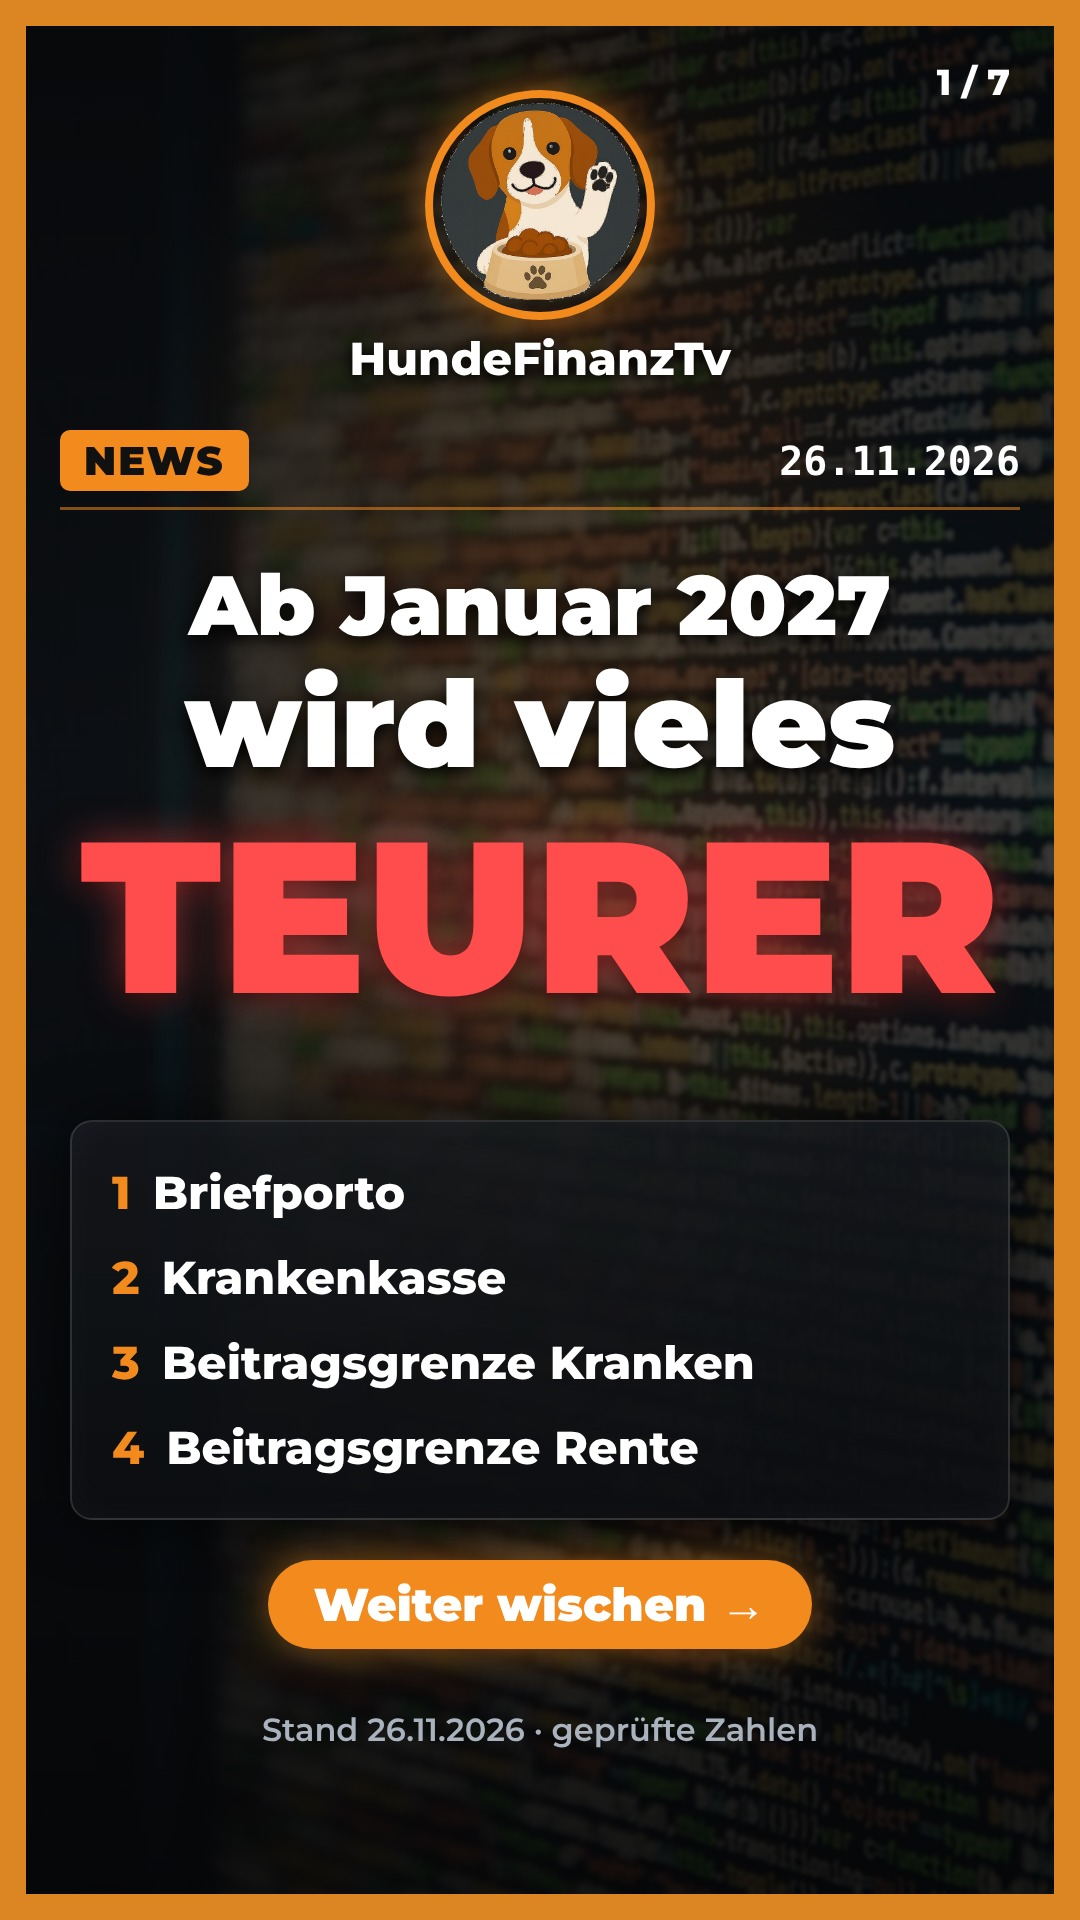
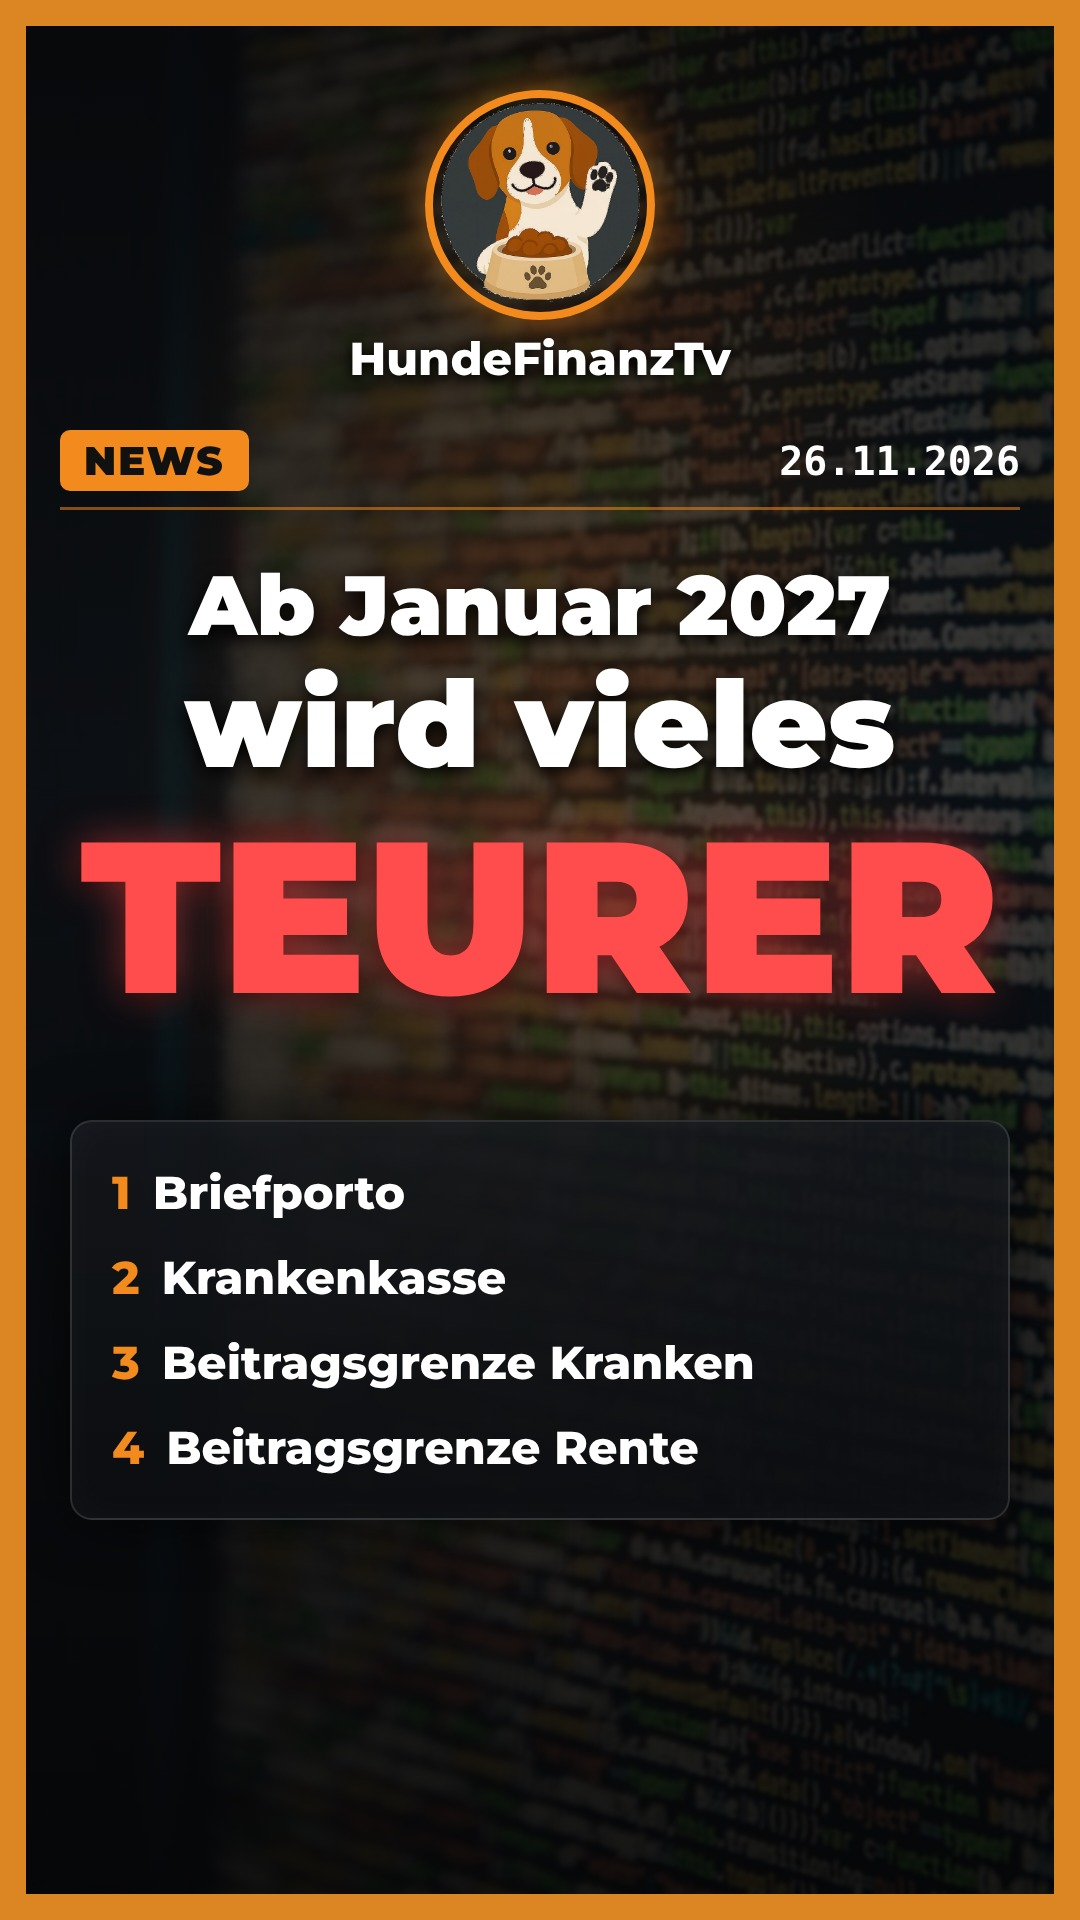
Slideshow 2027-teurer im dunklen Look (7 Bilder, Bild 1 = Thumbnail); Regel

Changed region(s): [[0.2139, 0.7812, 0.7639, 0.9062], [0.8556, 0.0312, 0.9472, 0.0625]]

diff --git a/slides/2027-teurer/dunkel.py b/slides/2027-teurer/dunkel.py
@@ -1,0 +1,52 @@
+#!/usr/bin/env python3
+"""Slideshow „2027 wird teurer“ DUNKEL (26.11.2026, 9:16). Bild 01 = Thumbnail (ohne Zähler/Stand/Wischen)."""
+import os
+import sys
+sys.path.insert(0, "/home/user/tiktok-videos/scripts")
+import slide_dark as sd  # noqa: E402
+
+R, O, G = sd.ROT, sd.O, sd.G
+OUT = "/home/user/tiktok-videos/renders/slides/2027-teurer-dunkel/"
+POSTF = sd.L + "deutsche-post.svg"
+HAS_POST = os.path.exists(POSTF) and b"<svg" in open(POSTF, "rb").read(400)
+D = "26.11.2026"
+W = lambda: sd.pille("Weiter wischen →", 1560, "#1d2330", 46)  # noqa: E731
+
+
+def liste(zeilen):
+    return "".join(f'<div style="display:flex;width:100%;align-items:center;gap:22px;font-weight:800;font-size:46px;padding:14px 0"><span style="color:{O}">{i}</span>{t}</div>' for i, t in zeilen)
+
+
+s1 = (sd.kopf(D) + sd.txt("Ab Januar 2027", 560, 84) + sd.txt("wird vieles", 660, 120) + sd.txt("TEURER", 800, 215, R)
+      + sd.glas(liste([("1", "Briefporto"), ("2", "Krankenkasse"), ("3", "Beitragsgrenze Kranken"), ("4", "Beitragsgrenze Rente")]), 1120, 400))
+s2 = (sd.kopf(D, nr="2 / 7") + sd.txt("1 · Briefporto", 540, 100, O)
+      + sd.glas((f'<img src="file://{POSTF}" style="height:110px;margin-bottom:26px"/>' if HAS_POST else "") + sd.von_nach("0,95 €", "1,15 €", "Standardbrief", 118), 700, 420)
+      + sd.pille("+ 21 %", 1190, R, 80) + sd.txt("geplant ab 1. Januar 2027<br>Bundesnetzagentur muss noch zustimmen", 1330, 44, "#e5e7eb")
+      + W() + sd.quelle("Quelle: Deutsche Post, Bundesnetzagentur · +21 % = eigene Rechnung"))
+s3 = (sd.kopf(D, nr="3 / 7") + sd.txt("2 · Krankenkasse", 540, 100, O)
+      + sd.glas('<div style="font-weight:700;font-size:46px;color:#cbd5e1">Ø Zusatzbeitrag 2027</div>'
+                f'<div style="font-weight:900;font-size:220px;line-height:1.1;text-shadow:0 0 40px #fff4">2,9 %</div><div style="font-weight:800;font-size:54px;color:{G}">bleibt wie 2026</div>', 700, 520)
+      + sd.txt("Aber: Deine Kasse kann<br>trotzdem mehr verlangen.", 1260, 54) + sd.pille("Dann darfst du wechseln", 1440, O, 50)
+      + W() + sd.quelle("Quelle: Bundesgesundheitsministerium, 30.10.2026"))
+s4 = (sd.kopf(D, nr="4 / 7") + sd.txt("3 · Krankenversicherung", 540, 70, O)
+      + sd.glas(sd.von_nach("5.812,50 €", "6.375 €", "Beitragsgrenze pro Monat", 72), 680, 400)
+      + sd.txt("Bis zu diesem Gehalt zahlst du<br>Beiträge. Alles darüber ist frei.", 1150, 48) + sd.pille("Trifft Gutverdiener", 1370, R, 54)
+      + W() + sd.quelle("Quelle: Bundesregierung, Kabinett 7.10.2026 · Bundesrat steht noch aus"))
+s5 = (sd.kopf(D, nr="5 / 7") + sd.txt("Was heißt das?", 540, 110, O)
+      + sd.glas('<div style="font-weight:700;font-size:46px;color:#cbd5e1">Bei 6.375 € brutto und mehr</div>'
+                f'<div style="font-weight:900;font-size:190px;line-height:1.1;color:{R};text-shadow:0 0 50px {R}aa">+ 49 €</div><div style="font-weight:800;font-size:54px">im Monat für dich</div>', 700, 520)
+      + sd.txt("nur Krankenversicherung,<br>Anteil Arbeitnehmer", 1260, 50, "#e5e7eb") + W()
+      + sd.quelle("Eigene Rechnung: 562,50 € × 8,75 % (14,6 % + 2,9 % Zusatz, geteilt)"))
+s6 = (sd.kopf(D, nr="6 / 7") + sd.txt("4 · Rentenversicherung", 540, 70, O)
+      + sd.glas(sd.von_nach("8.450 €", "8.850 €", "Beitragsgrenze pro Monat", 92), 680, 400)
+      + sd.txt("Wer mehr verdient, zahlt auf<br>mehr Gehalt Rentenbeiträge.", 1150, 48) + sd.pille("+ 400 € mehr Grenze", 1370, R, 54)
+      + W() + sd.quelle("Quelle: Deutsche Rentenversicherung, Kabinett 7.10.2026"))
+s7 = (sd.kopf(D, nr="7 / 7") + sd.txt('HundeFinanz<span style="color:#f28a1e">Tv</span>', 600, 100)
+      + sd.pille("+ Folgen", 800, O, 70) + sd.pille("Speichern · Teilen", 960, "#1d2330", 60) + sd.txt("Jeden Tag neue Geld-Tipps", 1150, 56)
+      + sd.glas('<div style="font-weight:700;font-size:40px;text-align:center;line-height:1.3">Merk dir:<br>Mehr Beiträge, weniger Netto.</div>', 1300, 220)
+      + sd.quelle("Keine Anlageberatung, nur eine Erklärung."))
+for i, s in enumerate([s1, s2, s3, s4, s5, s6, s7], 1):
+    sd.speichern(s, f"{OUT}{i:02d}.jpg")
+import shutil  # noqa: E402
+shutil.copy(OUT + "01.jpg", "/home/user/tiktok-videos/renders/slides/2027-teurer-dunkel/thumbnail.jpg")
+print("fertig, Post-Logo:", HAS_POST)

diff --git a/CLAUDE.md b/CLAUDE.md
@@ -55,3 +55,4 @@ Videos werden mit HyperFrames (HTML + GSAP → MP4) gebaut. Skills: `.claude/ski
 - **Logos IMMER (Nutzer 25.11., „muss dir das jedes Mal sagen“):** Wird ein Unternehmen genannt, kommt AUTOMATISCH sein ORIGINAL-Logo ins Bild (Szene bzw. Zeile). Logos liegen in `brand/logos/` (`Kit(..., logos=[...])`), fehlt eins: von Wikimedia Commons holen (`curl -L -A "Mozilla/5.0" https://commons.wikimedia.org/wiki/Special:FilePath/<Datei>`, bei 429 kurz warten) und in `brand/logos/` ablegen. Neu: vw.svg, bmw.svg. Hat das Logo den Namen schon drin, den Namen nicht doppelt schreiben. Laufband etwas höher: `top=1560`.
 - **Tagesplan ab 26.11. (Nutzer):** 1) mittags 1 Video, 2) nachmittags 1 **Bilder-Slideshow** (Karussell, Content für Instagram + TikTok, Bilder im selben hellen News-Look wie die Videos, professionell, Orange-Rahmen, Logos, Beagle-Marke), 3) abends Börsenrückblick (mit Laufband). Slideshow = TEST, Zahlen immer geprüft + Quellen, Beschreibung + Tags wie bei Videos, Ausgabe als JPGs in `renders/slides/<name>/` (Slide 1 = stärkster Hook, letzte Slide = Folgen-CTA + Hinweis).
 - **DUNKLER Look ab 26.11. (Nutzer, Vorbild Bitcoin-Wochenend-Crash-Video vom 14.11.):** Hintergrund wieder DUNKEL (nicht ganz schwarz: abgedunkeltes Code-/Themenfoto mit Vignette, oranger Glow, oranger Rahmen), oben großer Beagle-Kreis + „HundeFinanzTv“, NEWS-Pille + Datum, Neon-Zahlen (rot/grün/orange), dunkle Glas-Karten, Laufband dunkel. Gilt für Slideshows UND Videos (hell/weiß = abgelehnt). Slideshow-Baukasten: `scripts/slide_dark.py`, Thumbnails passend im schwarzen Cover-Stil (`cover_dark.py`).
+- **Slideshow-Thumbnail (Nutzer 26.11.):** Thumbnail = das ERSTE Bild im dunklen Look (Beagle, NEWS+Datum, große Überschrift, Kurzliste), aber OHNE „1/7“, OHNE „Stand … geprüfte Zahlen“ und OHNE „Weiter wischen“. Gefiel ihm so (Vorlage: `slides/2027-teurer/dunkel.py`, Bild 01).
